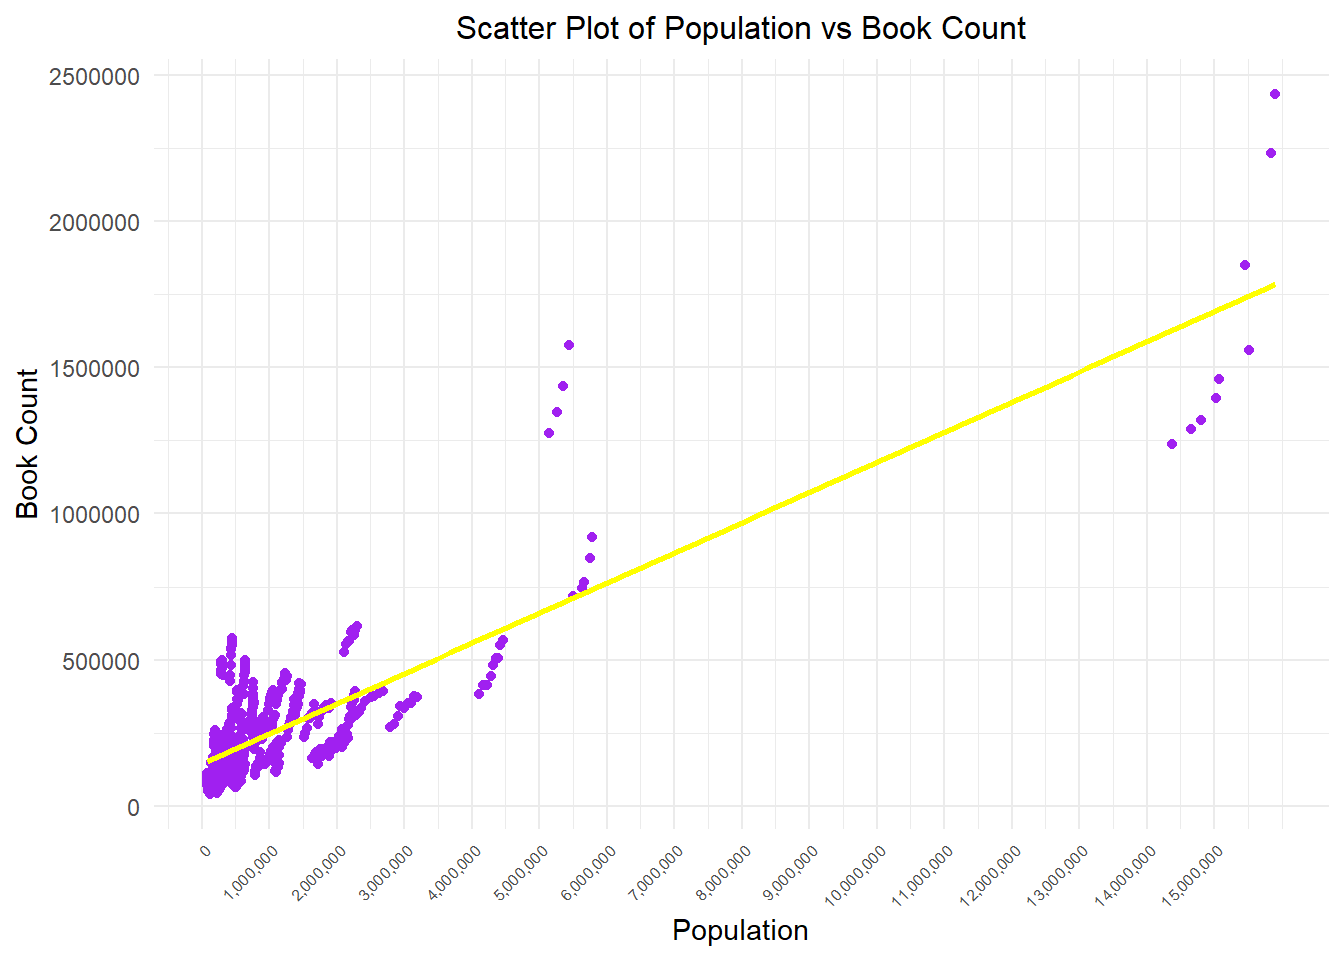
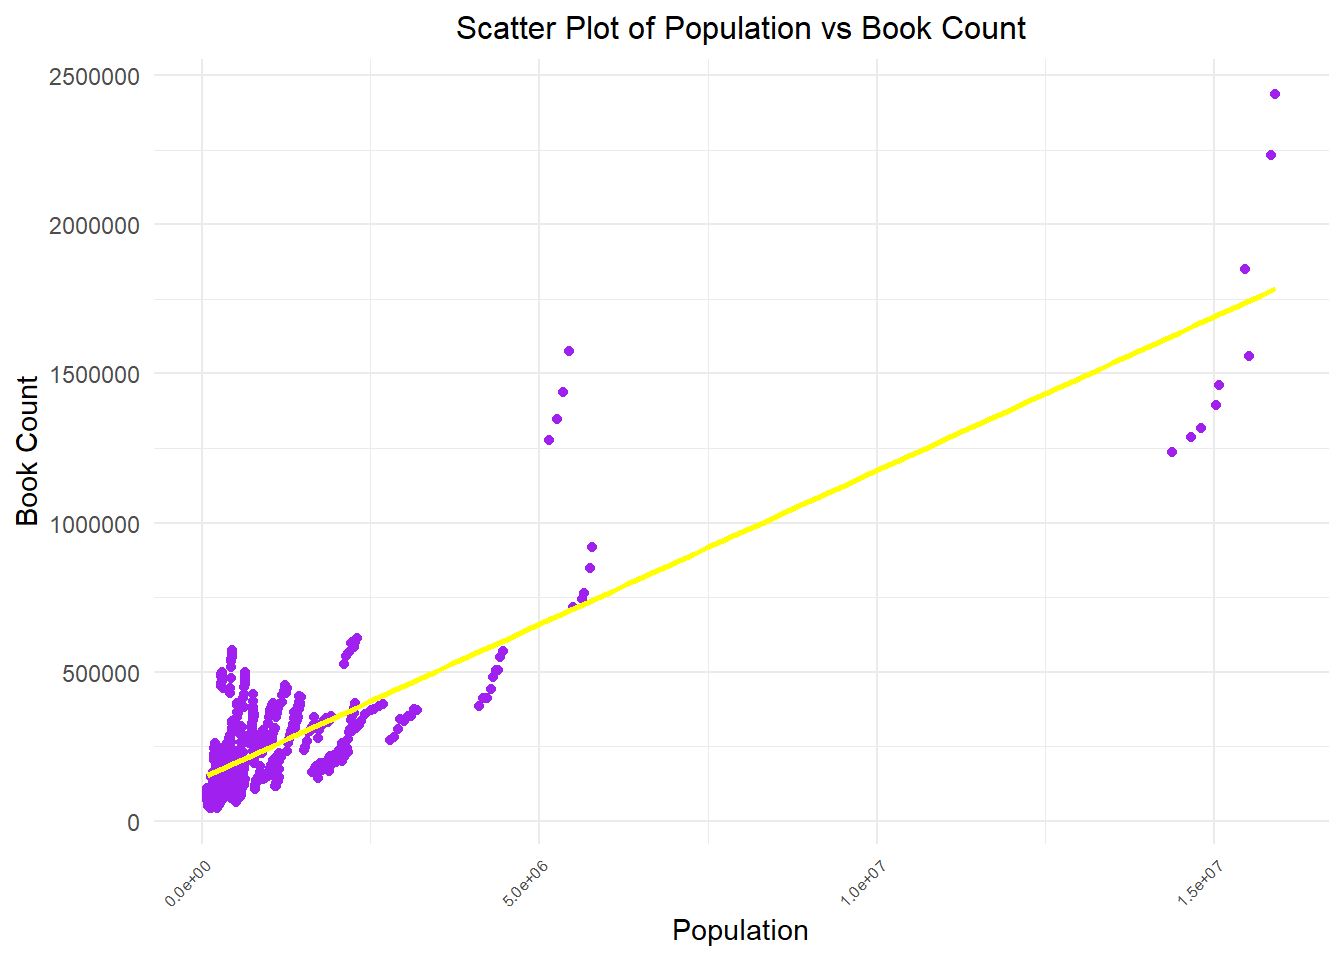
yessssss

diff --git a/docs/analysis.html b/docs/analysis.html
@@ -213,8 +213,7 @@ pre > code.sourceCode > span > a:first-child::before { text-decoration: underlin
 <span id="cb5-4"><a href="#cb5-4" aria-hidden="true" tabindex="-1"></a>  <span class="fu">labs</span>(<span class="at">x =</span> <span class="st">"Population"</span>, <span class="at">y =</span> <span class="st">"Book Count"</span>) <span class="sc">+</span> </span>
 <span id="cb5-5"><a href="#cb5-5" aria-hidden="true" tabindex="-1"></a>  <span class="fu">ggtitle</span>(<span class="st">"Scatter Plot of Population vs Book Count"</span>) <span class="sc">+</span></span>
 <span id="cb5-6"><a href="#cb5-6" aria-hidden="true" tabindex="-1"></a>  <span class="fu">theme_minimal</span>() <span class="sc">+</span></span>
-<span id="cb5-7"><a href="#cb5-7" aria-hidden="true" tabindex="-1"></a>  <span class="fu">theme</span>(<span class="at">plot.title =</span> <span class="fu">element_text</span>(<span class="at">size =</span> <span class="dv">12</span>, <span class="at">hjust =</span> <span class="fl">0.5</span>),<span class="at">axis.text.x =</span> <span class="fu">element_text</span>(<span class="at">angle =</span> <span class="dv">45</span>, <span class="at">hjust =</span> <span class="dv">1</span>, <span class="at">size =</span> <span class="dv">6</span>)) <span class="sc">+</span></span>
-<span id="cb5-8"><a href="#cb5-8" aria-hidden="true" tabindex="-1"></a>  <span class="fu">scale_x_continuous</span>(<span class="at">labels =</span> scales<span class="sc">::</span>comma, <span class="at">breaks =</span> <span class="fu">seq</span>(<span class="dv">0</span>, <span class="dv">15000000</span>, <span class="at">by =</span> <span class="dv">1000000</span>))</span></code><button title="Copy to Clipboard" class="code-copy-button"><i class="bi"></i></button></pre></div>
+<span id="cb5-7"><a href="#cb5-7" aria-hidden="true" tabindex="-1"></a>  <span class="fu">theme</span>(<span class="at">plot.title =</span> <span class="fu">element_text</span>(<span class="at">size =</span> <span class="dv">12</span>, <span class="at">hjust =</span> <span class="fl">0.5</span>),<span class="at">axis.text.x =</span> <span class="fu">element_text</span>(<span class="at">angle =</span> <span class="dv">45</span>, <span class="at">hjust =</span> <span class="dv">1</span>, <span class="at">size =</span> <span class="dv">6</span>)) </span></code><button title="Copy to Clipboard" class="code-copy-button"><i class="bi"></i></button></pre></div>
 </details>
 <div class="cell-output-display">
 <p><img src="analysis_files/figure-html/unnamed-chunk-4-1.png" class="img-fluid" width="672"></p>
